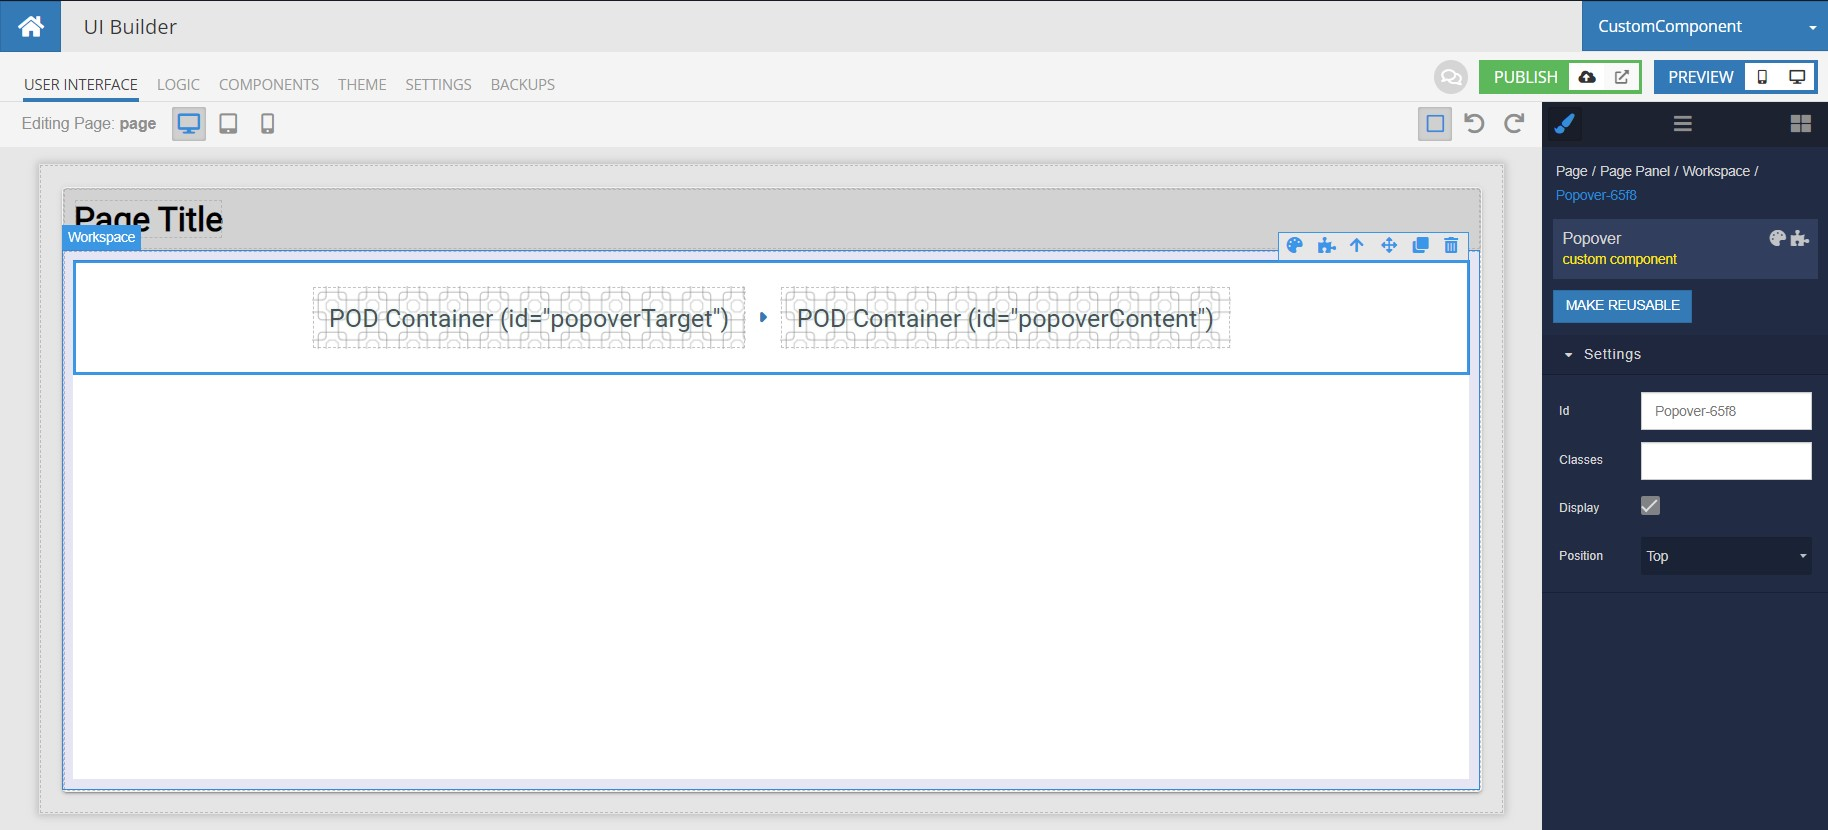
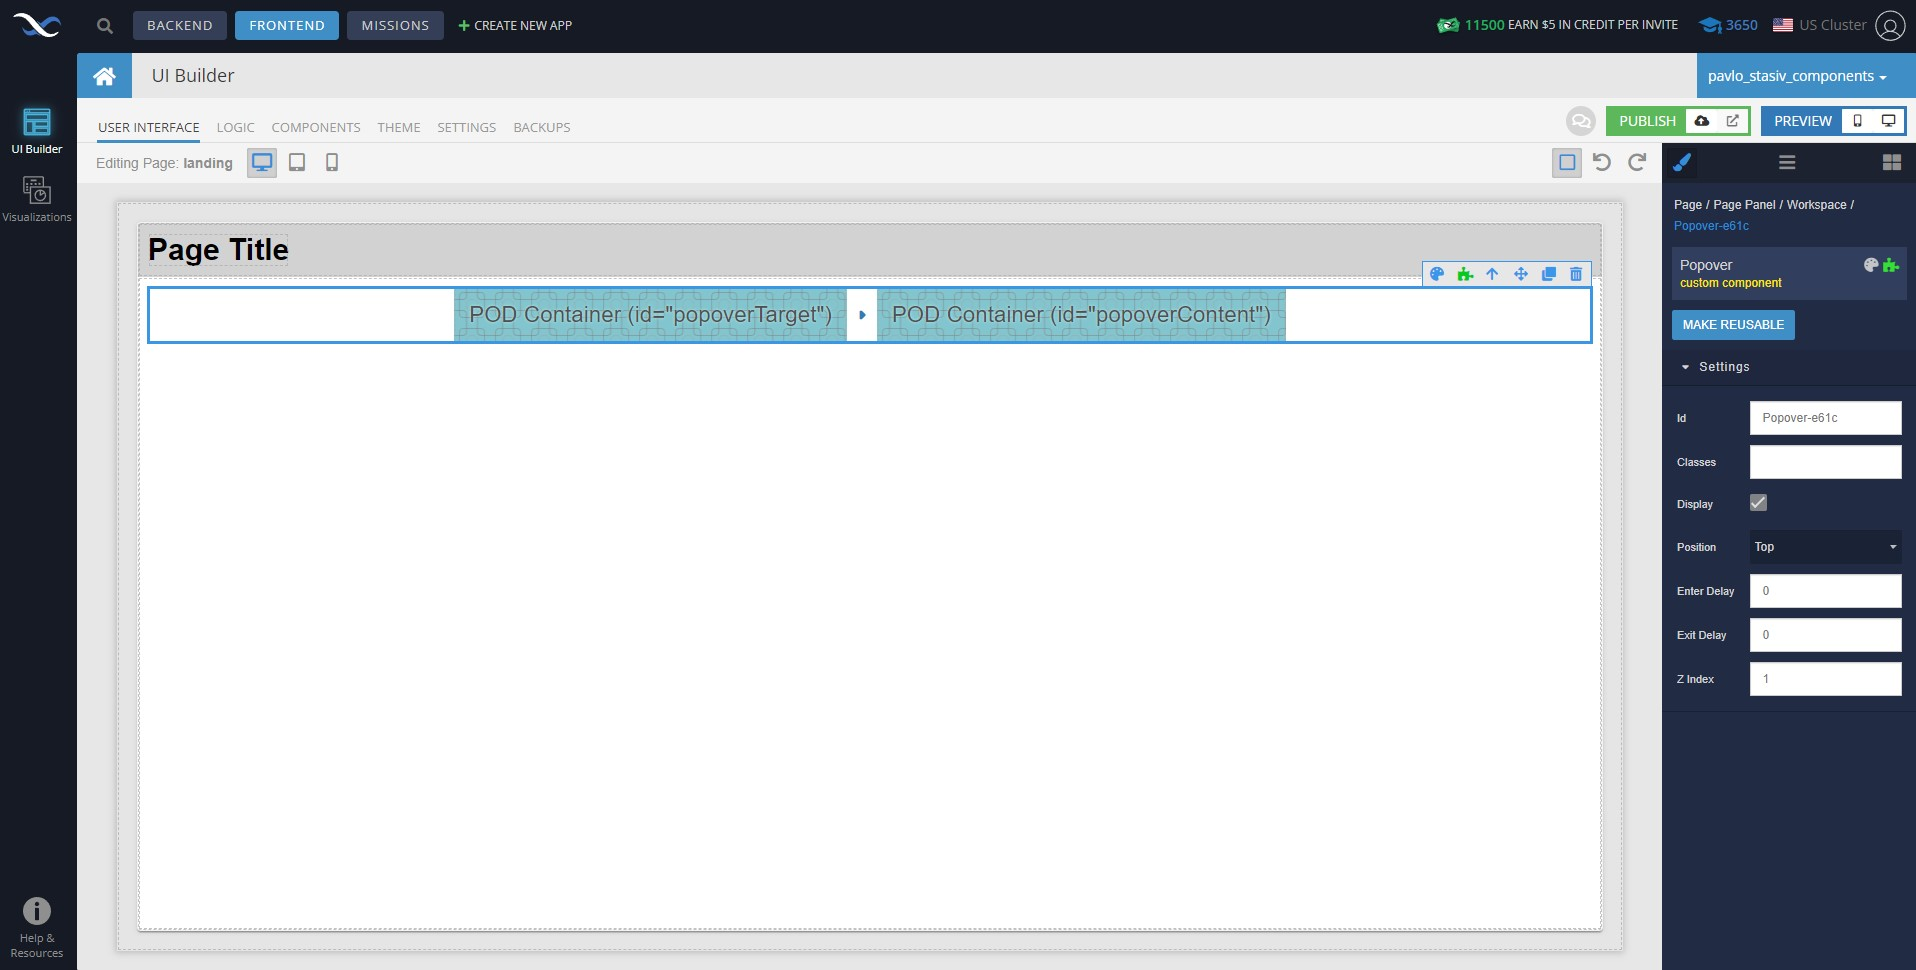
renamed delay settings and remade image examples, renamed Tooltip.js to lowercase

Changed region(s): [[0.0, 0.0, 1.0, 1.0]]

diff --git a/components/bl-popover/src/helpers.js b/components/bl-popover/src/helpers.js
@@ -95,7 +95,7 @@ const validatePosition = (position, PositionValidator, ShiftHandler) => {
   return { ...ShiftHandler[position], newPosition: position };
 };
 
-export const useMouseEvents = (tooltip, targetRef, onMouseOver, onMouseOut, isOpen, delayMouseOver, delayMouseOut) => {
+export const useMouseEvents = (tooltip, targetRef, onMouseOver, onMouseOut, isOpen, enterDelay, exitDelay) => {
   const tooltipMouseEnterTimeout = useRef(null);
   const tooltipMouseLeaveTimeout = useRef(null);
 
@@ -109,7 +109,7 @@ export const useMouseEvents = (tooltip, targetRef, onMouseOver, onMouseOut, isOp
     clearTimeout(targetMouseLeaveTimeout.current);
     clearTimeout(targetMouseEnterTimeout.current);
 
-    timeout.current = setTimeout(() => onMouseOver({ isOpen }), delayMouseOver);
+    timeout.current = setTimeout(() => onMouseOver({ isOpen }), enterDelay);
   };
 
   const onMouseLeave = timeout => {
@@ -119,7 +119,7 @@ export const useMouseEvents = (tooltip, targetRef, onMouseOver, onMouseOut, isOp
     clearTimeout(targetMouseLeaveTimeout.current);
     clearTimeout(targetMouseEnterTimeout.current);
 
-    timeout.current = setTimeout(() => onMouseOut({ isOpen }), delayMouseOut);
+    timeout.current = setTimeout(() => onMouseOut({ isOpen }), exitDelay);
   };
 
   useEffect(() => {

diff --git a/components/bl-popover/src/index.js b/components/bl-popover/src/index.js
@@ -1,12 +1,12 @@
 import { useEffect, useMemo, useRef, useState } from 'react';
 
 import { useMouseEvents } from './helpers';
-import { Tooltip } from './Tooltip';
+import { Tooltip } from './tooltip';
 
 const { cn } = BackendlessUI.CSSUtils;
 
 export default function Popover({ component, eventHandlers, pods }) {
-  const { display, style, classList, position, delayMouseOver, delayMouseOut, zIndex } = component;
+  const { display, style, classList, position, enterDelay, exitDelay, zIndex } = component;
   const { onTargetClick, onMouseOver, onMouseOut } = eventHandlers;
 
   const rootRef = useRef();
@@ -24,7 +24,7 @@ export default function Popover({ component, eventHandlers, pods }) {
 
   component.setIsOpen = setIsOpen;
 
-  useMouseEvents(tooltipRef, targetRef, onMouseOver, onMouseOut, isOpen, delayMouseOver, delayMouseOut);
+  useMouseEvents(tooltipRef, targetRef, onMouseOver, onMouseOut, isOpen, enterDelay, exitDelay);
 
   if (!display) {
     return null;

diff --git a/components/bl-popover/README.md b/components/bl-popover/README.md
@@ -10,12 +10,12 @@ The component allows you to render a popup window in your UI-Builder application
 
 ## Properties
 
-| Property                          | Type                                                            | Default Value | Logic          | Data Binding | UI Setting | Description                                                            |
-|-----------------------------------|-----------------------------------------------------------------|---------------|----------------|--------------|------------|------------------------------------------------------------------------|
-| Position:`position`               | Select [Top:`top`, Right:`right`, Bottom:`bottom`, Left:`left`] | Top:`top`     | Position Logic | NO           | YES        | Allows to determine the position of the popover relative to the button |
-| Delay Mouse Over:`delayMouseOver` | Number                                                          | 0             |                | NO           | YES        | Allows to determine the delay for On Mouse Over event                  |
-| Delay Mouse Out:`delayMouseOut`   | Number                                                          | 0             |                | NO           | YES        | Allows to determine the delay for On Mouse Out event                   |
-| Z Index:`zIndex`                  | Number                                                          | 1             | Z Index Logic  | YES          | YES        | Allows to determine the z-index style for popover                      |
+| Property                 | Type                                                            | Default Value | Logic          | Data Binding | UI Setting | Description                                                            |
+|--------------------------|-----------------------------------------------------------------|---------------|----------------|--------------|------------|------------------------------------------------------------------------|
+| Position:`position`      | Select [Top:`top`, Right:`right`, Bottom:`bottom`, Left:`left`] | Top:`top`     | Position Logic | NO           | YES        | Allows to determine the position of the popover relative to the button |
+| Enter Delay:`enterDelay` | Number                                                          | 0             |                | NO           | YES        | Allows to determine the enter delay                                    |
+| Exit Delay:`exitDelay`   | Number                                                          | 0             |                | NO           | YES        | Allows to determine the exit delay                                     |
+| Z Index:`zIndex`         | Number                                                          | 1             | Z Index Logic  | YES          | YES        | Allows to determine the z-index style for popover                      |
 
 ## Events
 
